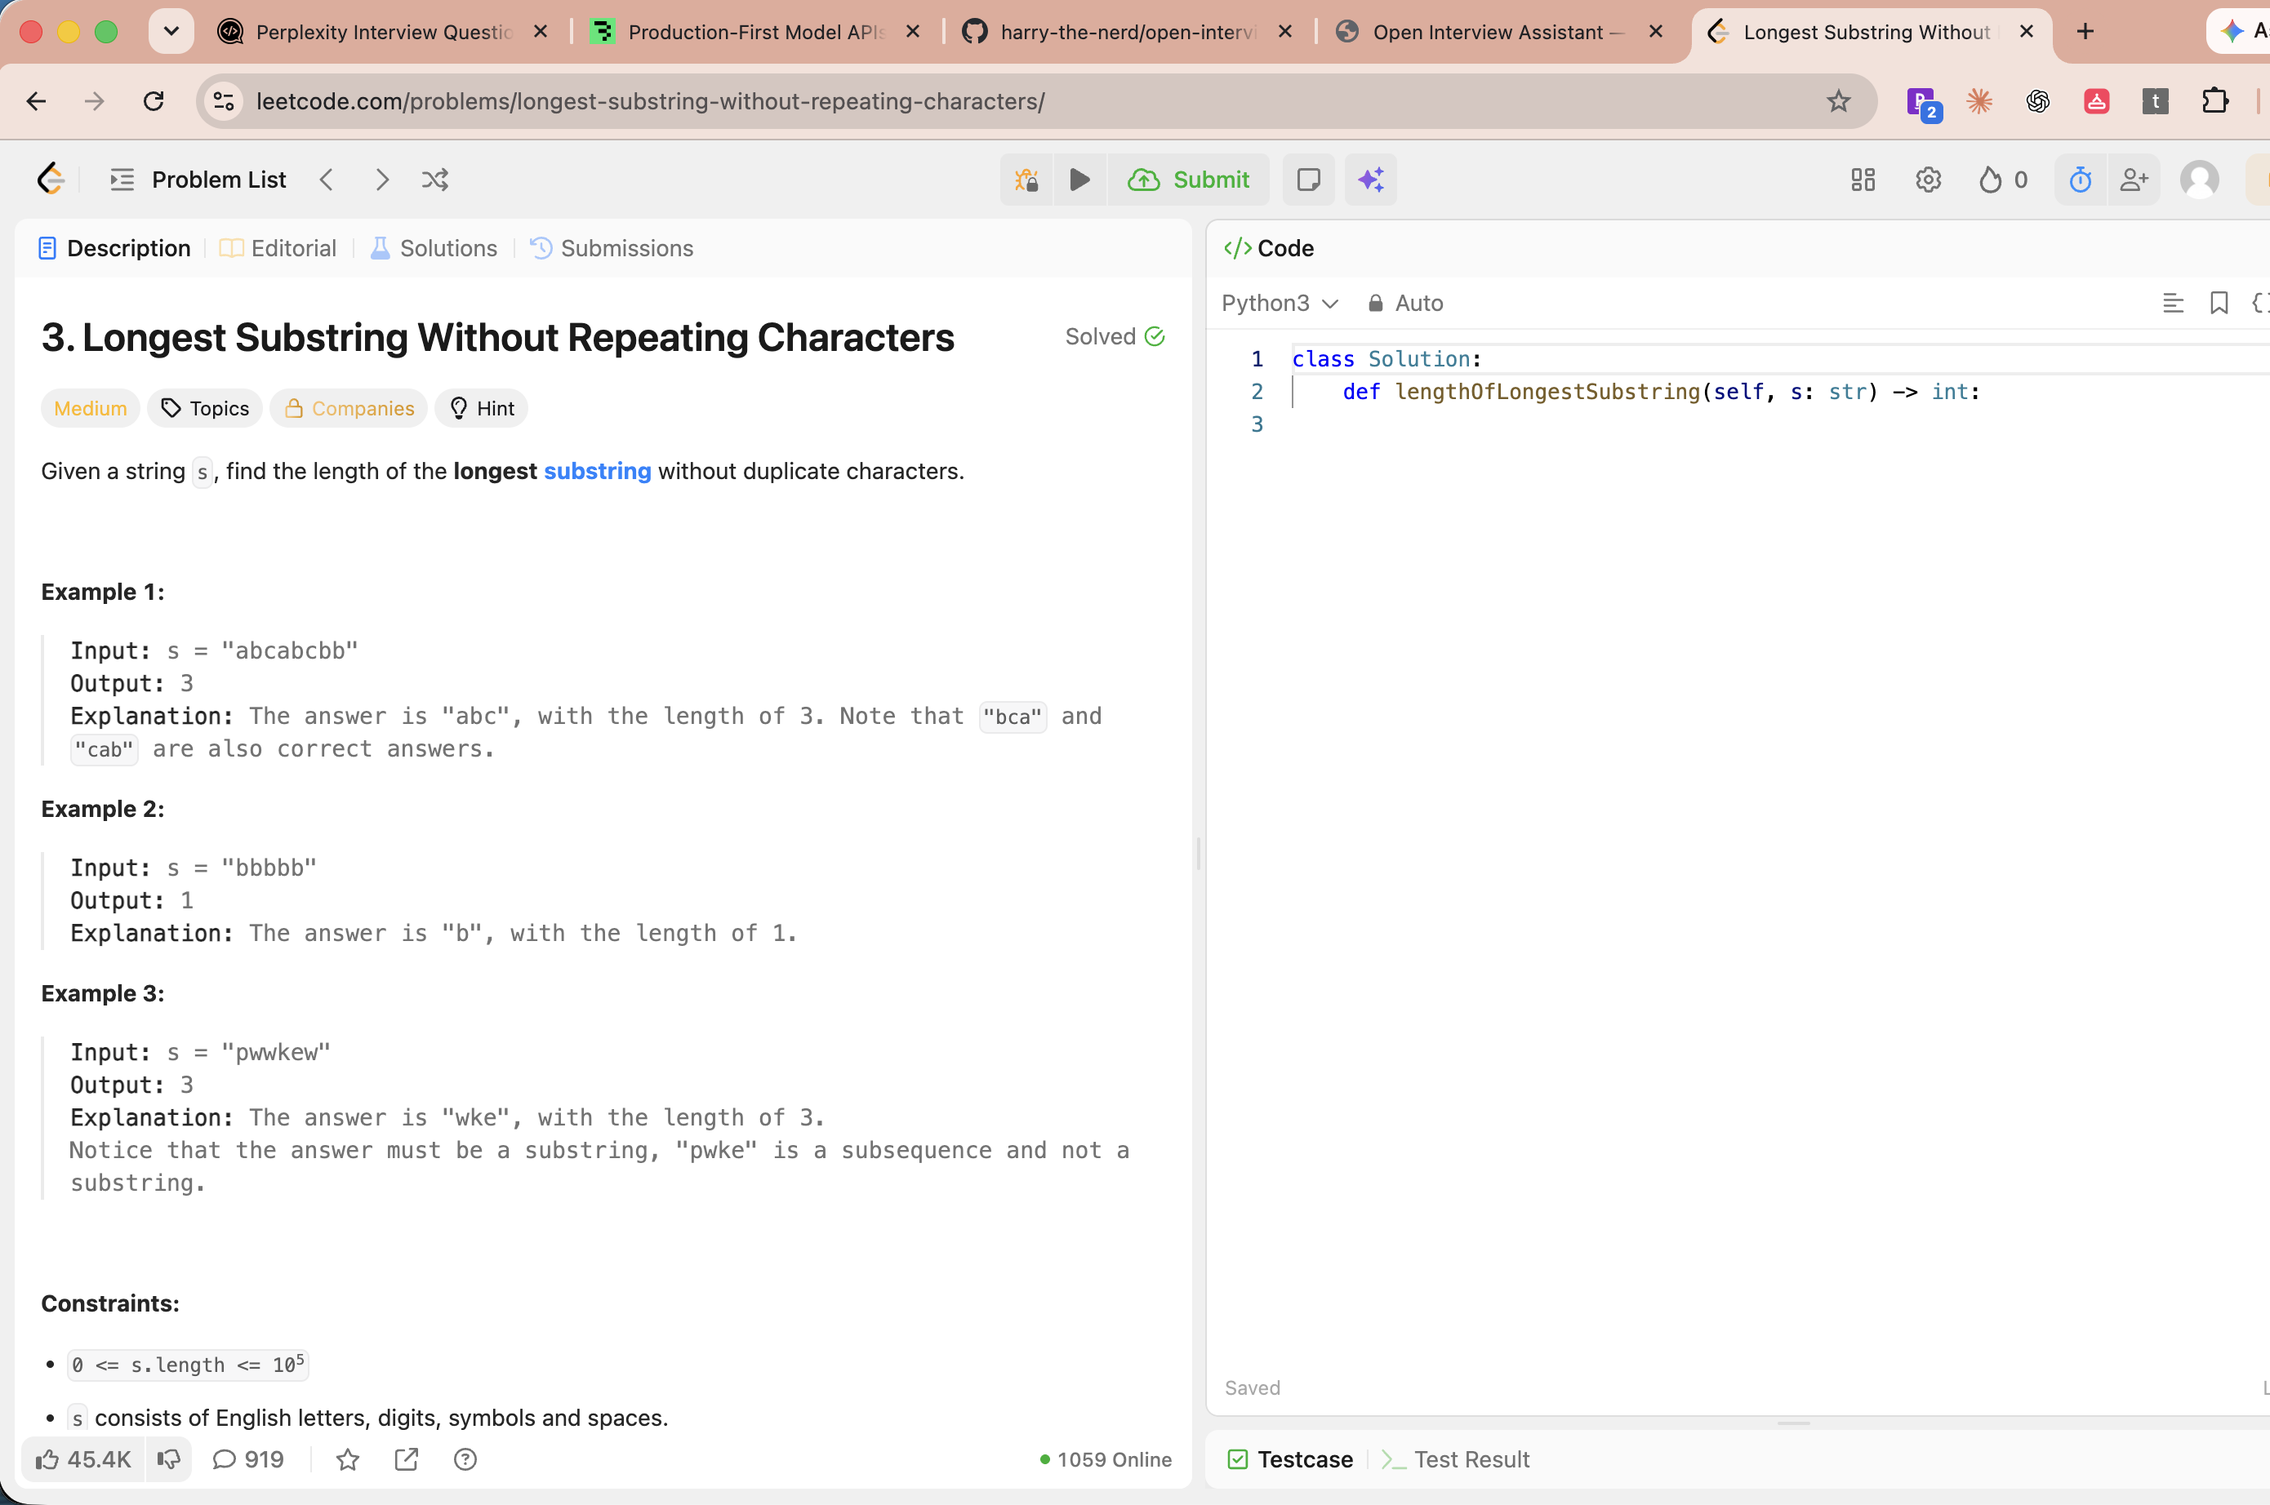
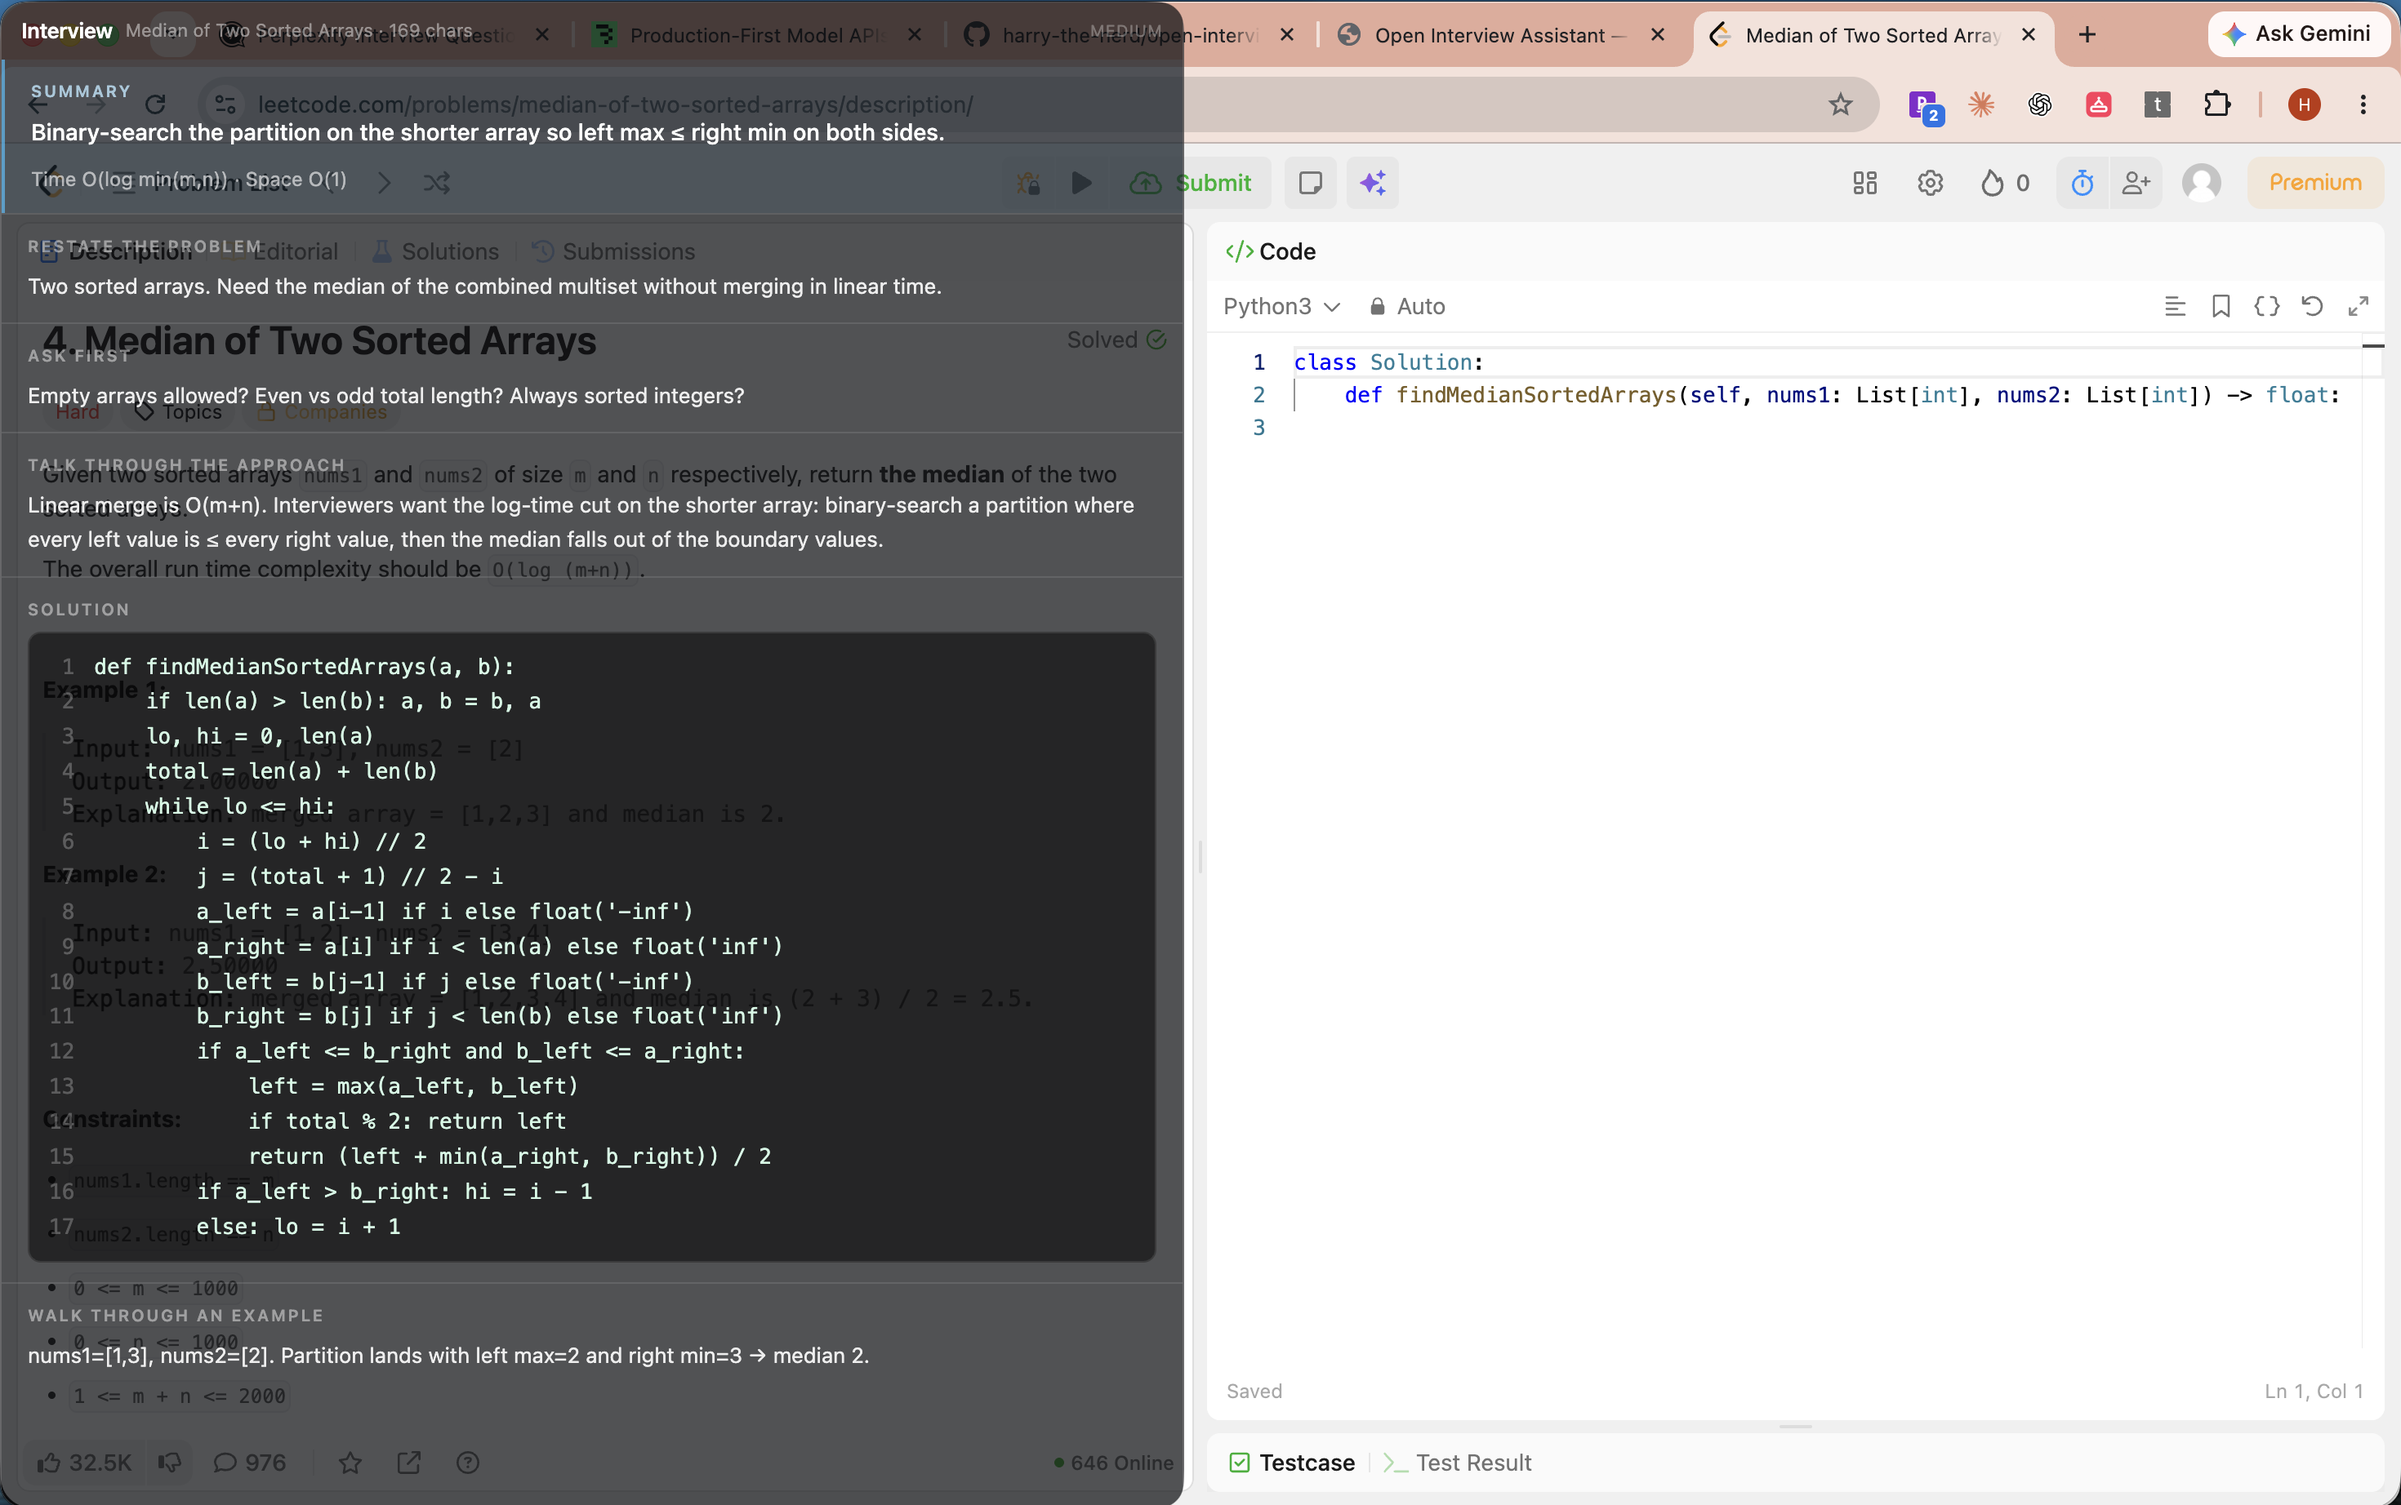
Update landing hero screenshot and restore content protection
Replace the product shot with a new capture that includes the overlay.
Reset SCREENSHOT_MODE hooks so the panel is hidden from share/capture again.

diff --git a/docs/index.html b/docs/index.html
@@ -51,7 +51,7 @@
     />
     <meta property="og:image:type" content="image/png" />
     <meta property="og:image:width" content="1600" />
-    <meta property="og:image:height" content="1061" />
+    <meta property="og:image:height" content="1003" />
     <meta
       property="og:image:alt"
       content="Open Interview Assistant overlay showing an interview script beside a coding problem"
@@ -109,7 +109,7 @@
             "@id": "https://harry-the-nerd.github.io/open-interview-assistant/#hero-image",
             "url": "https://harry-the-nerd.github.io/open-interview-assistant/assets/hero.png",
             "contentUrl": "https://harry-the-nerd.github.io/open-interview-assistant/assets/hero.png",
-            "width": 2780,
+            "width": 2940,
             "height": 1844,
             "caption": "Open Interview Assistant floating over a coding interview problem"
           },
@@ -1163,7 +1163,7 @@
           <figure class="hero-shot">
             <img
               src="assets/hero.png"
-              width="2780"
+              width="2940"
               height="1844"
               alt="Open Interview Assistant overlay floating over a coding interview problem with a structured answer: summary, approach, and solution code"
               title="Open Interview Assistant in action"
